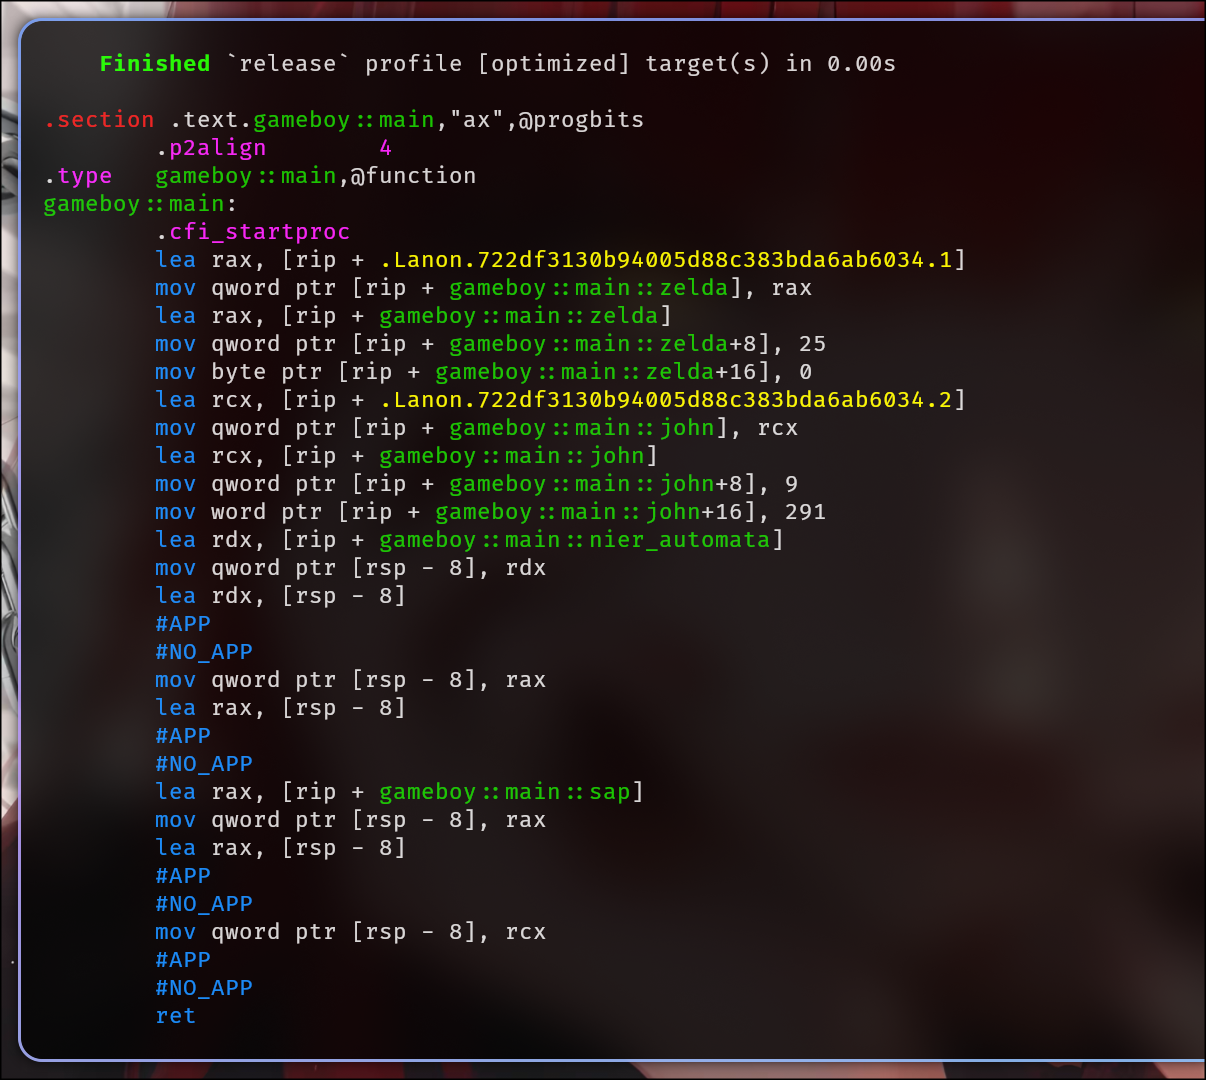
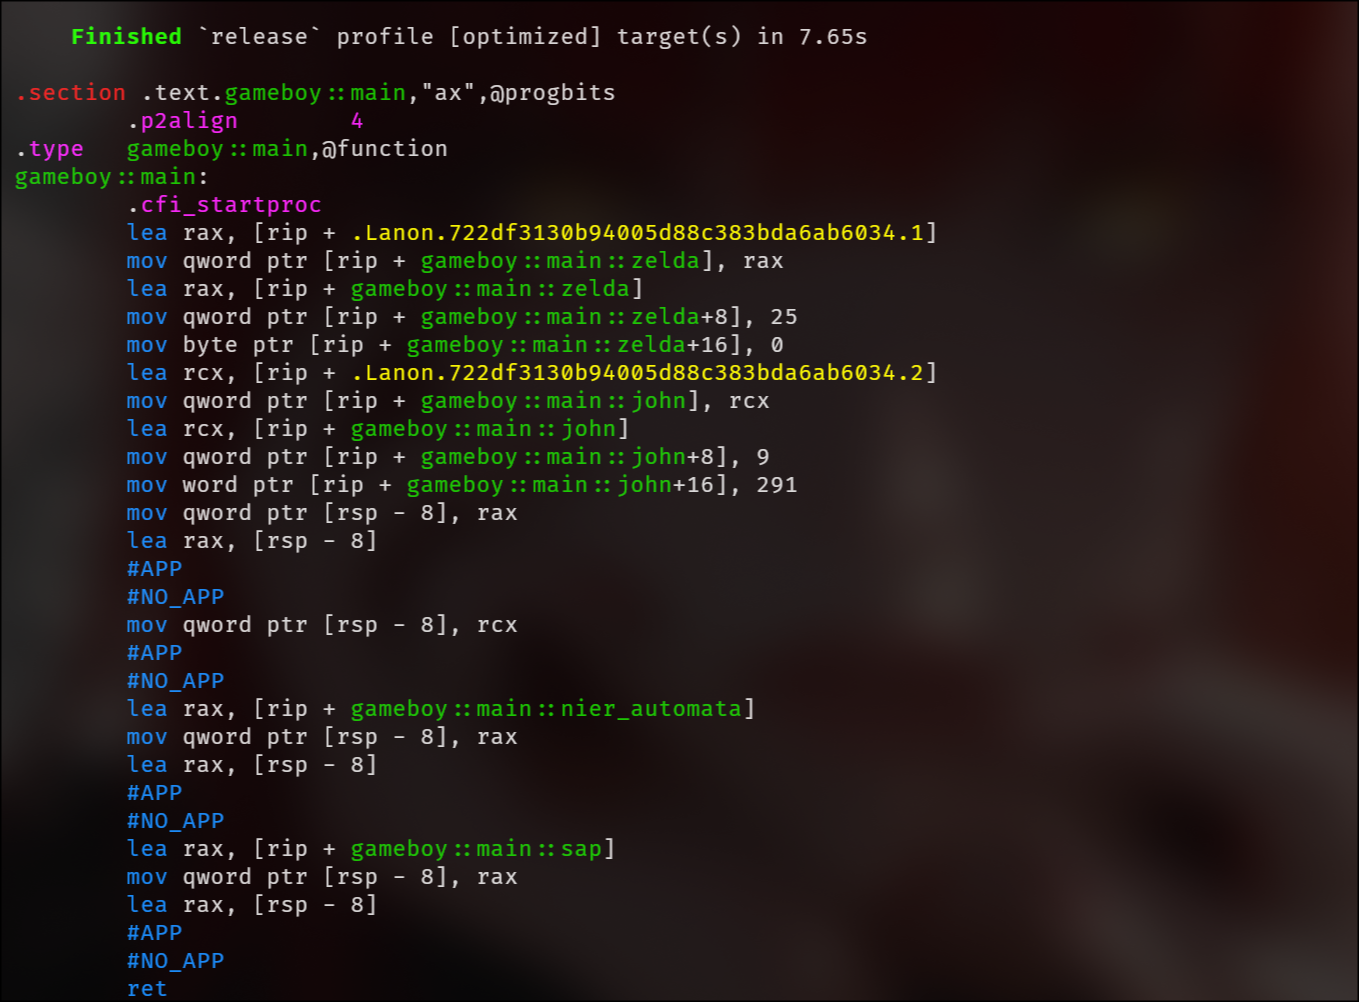
0.0.4: llvm optimize

diff --git a/tests/user.rs b/tests/user.rs
@@ -30,14 +30,15 @@ fn test_hlist_book() {
     assert_eq!(hlist.admin().name, "Admin");
     assert!(hlist.admin().dev);
 
-    hlist.alice().password = "New_Alice_Password";
-    hlist.sap().password = "New_Sap_Password";
-    hlist.sap().dev = false;
+    unsafe {
+        hlist.alice().password = "New_Alice_Password";
+        hlist.sap().password = "New_Sap_Password";
+        hlist.sap().dev = false;
 
-    assert_eq!(hlist.alice().password, "New_Alice_Password");
-    assert_eq!(hlist.sap().password, "New_Sap_Password");
-    assert!(!hlist.sap().dev);
-
+        assert_eq!(hlist.alice().password, "New_Alice_Password");
+        assert_eq!(hlist.sap().password, "New_Sap_Password");
+        assert!(!hlist.sap().dev);
+    }
     let bob_retrieved: &User = hlist.get(0);
     assert_eq!(bob_retrieved.name, "Bob");
     assert_eq!(bob_retrieved.password, "12345");

diff --git a/examples/gameboy.rs b/examples/gameboy.rs
@@ -28,17 +28,20 @@ fn main() {
         mut john => Boy { name: Name("John Doe"), age: 15, dev: false }
     );
 
-    hlist.zelda().title = Title("Zelda: Breath of the Wild");
-    hlist.zelda().best_seller = false;
+    unsafe {
+        hlist.zelda().title = Title("Zelda: Breath of the Wild");
+        hlist.zelda().best_seller = false;
 
-    hlist.john().name = Name("John Wick");
-    hlist.john().dev = true;
-    hlist.john().age = 35;
+        hlist.john().name = Name("John Wick");
+        hlist.john().dev = true;
+        hlist.john().age = 35;
+
+        black_box(hlist.zelda());
+        black_box(hlist.john());
+    }
 
     black_box(hlist.nier_automata());
-    black_box(hlist.zelda());
     black_box(hlist.sap());
-    black_box(hlist.john());
 }
 
 #[inline(always)]

diff --git a/examples/user.rs b/examples/user.rs
@@ -24,11 +24,13 @@ fn main() {
         mut alice => User { name: "Alice", password: "67890" }
     );
 
-    hlist.alice().password = "New_Alice";
-    hlist.sap().password = "New_Sap";
-    hlist.sap().dev = false;
-    black_box(hlist.alice());
-    black_box(hlist.sap());
+    unsafe {
+        hlist.alice().password = "New_Alice";
+        hlist.sap().password = "New_Sap";
+        hlist.sap().dev = false;
+        black_box(hlist.alice());
+        black_box(hlist.sap());
+    }
 }
 
 #[inline(always)]

diff --git a/src/components/book.rs b/src/components/book.rs
@@ -82,7 +82,7 @@ macro_rules! book {
                 $($methods)*
                 #[inline(always)]
                 #[allow(clippy::mut_from_ref)]
-                pub fn $label(&self) -> &'static mut $Type {
+                pub unsafe fn $label(&self) -> &'static mut $Type {
                     unsafe { &mut *$label.inner.get() }
                 }
             ]

diff --git a/README.md b/README.md
@@ -31,6 +31,7 @@ kyaaa = "0.0.3"
 This is the exact code used to verify the zero-cost assembly output, featuring mixed structs, named mutability, and optimization barriers:
 
 ```rust
+
 use kyaaa::book;
 
 #[repr(transparent)]
@@ -58,17 +59,20 @@ fn main() {
         mut john => Boy { name: Name("John Doe"), age: 15, dev: false }
     );
 
-    hlist.zelda().title = Title("Zelda: Breath of the Wild");
-    hlist.zelda().best_seller = false;
+    unsafe {
+        hlist.zelda().title = Title("Zelda: Breath of the Wild");
+        hlist.zelda().best_seller = false;
 
-    hlist.john().name = Name("John Wick");
-    hlist.john().dev = true;
-    hlist.john().age = 35;
+        hlist.john().name = Name("John Wick");
+        hlist.john().dev = true;
+        hlist.john().age = 35;
+
+        black_box(hlist.zelda());
+        black_box(hlist.john());
+    }
 
     black_box(hlist.nier_automata());
-    black_box(hlist.zelda());
     black_box(hlist.sap());
-    black_box(hlist.john());
 }
 
 #[inline(always)]
@@ -76,7 +80,6 @@ fn black_box<T>(dummy: T) -> T {
     core::hint::black_box(dummy)
 }
 ```
-
 ---
 
 ## 🔬 Assembly Proof (Zero-Cost Verified)
